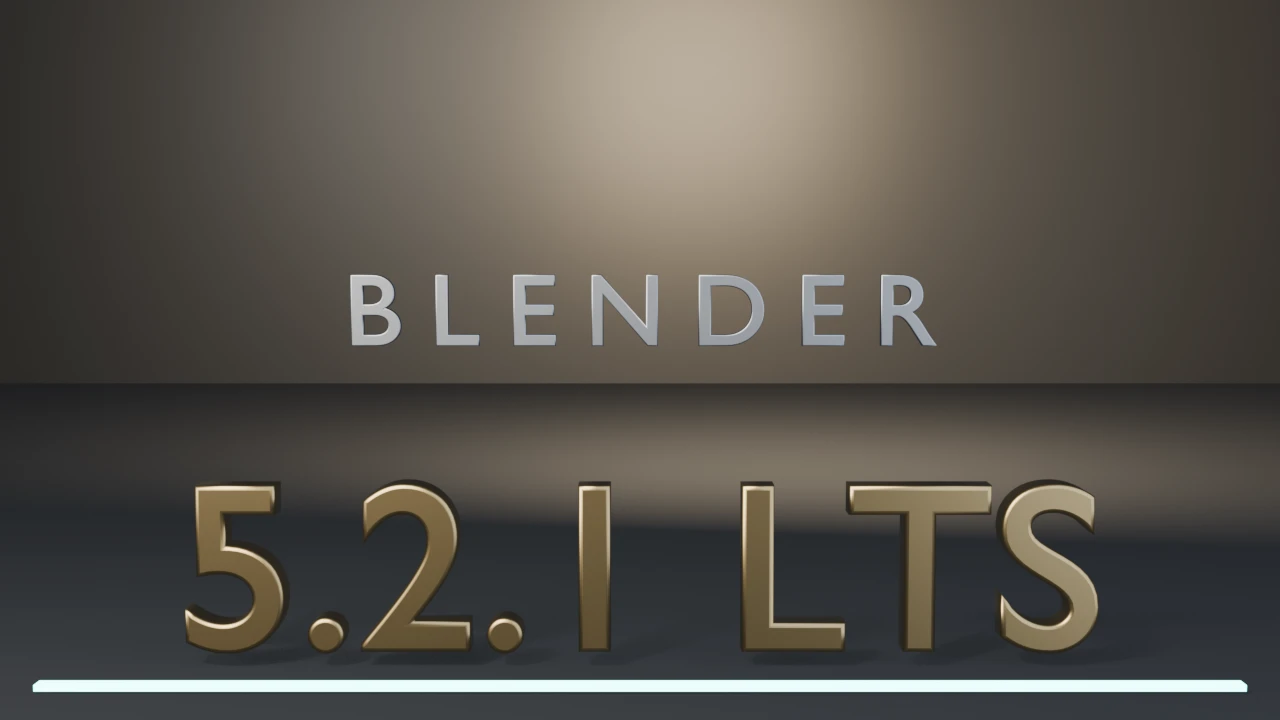
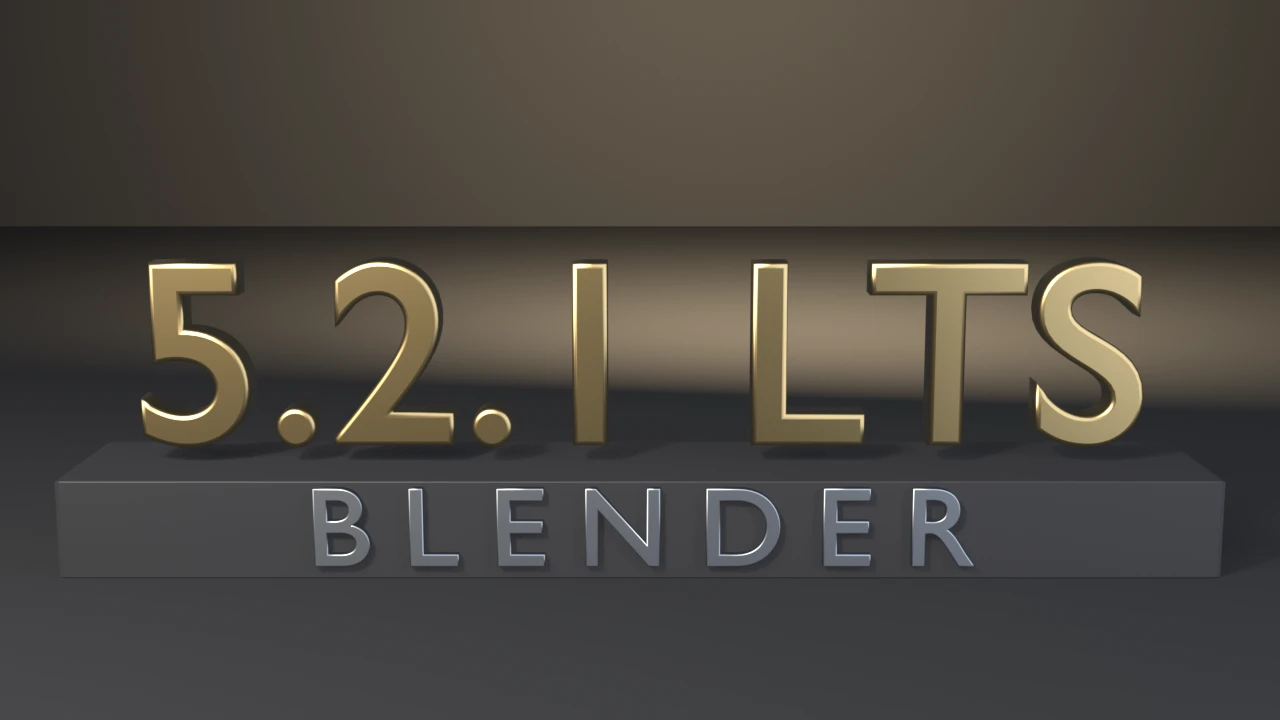
fix: text-version-stamp presentation, the stamp on a plinth
Render path only: the numerals stand on a plinth with the caption set into
its face; the floating caption and edge glow bar are gone. Standard view.
Contract and exit codes unchanged on 4.5.11, 5.1.2 and 5.2.1.

diff --git a/docs/gallery/text-version-stamp/index.html b/docs/gallery/text-version-stamp/index.html
@@ -16,13 +16,13 @@
   <meta property="og:image" content="https://tmhsdigital.github.io/Blender-Developer-Tools/gallery/assets/text-version-stamp-hero.webp" />
   <meta property="og:image:width" content="1280" />
   <meta property="og:image:height" content="720" />
-  <meta property="og:image:alt" content="The word BLENDER above the Blender version number in large gold 3D characters." />
+  <meta property="og:image:alt" content="The Blender version number in large gold 3D characters standing on a dark plinth, the word BLENDER set into its face." />
   <meta property="og:site_name" content="Blender Developer Tools" />
   <meta name="twitter:card" content="summary_large_image" />
   <meta name="twitter:title" content="text-version-stamp — Examples — Blender Developer Tools" />
   <meta name="twitter:description" content="The TextCurve data API — curves.new(type=&#x27;FONT&#x27;), live body text from bpy.app.version_string, extrude and bevel_depth solids, and evaluated-mesh conversion — so every render self-documents which Blender produced it." />
   <meta name="twitter:image" content="https://tmhsdigital.github.io/Blender-Developer-Tools/gallery/assets/text-version-stamp-hero.webp" />
-  <meta name="twitter:image:alt" content="The word BLENDER above the Blender version number in large gold 3D characters." />
+  <meta name="twitter:image:alt" content="The Blender version number in large gold 3D characters standing on a dark plinth, the word BLENDER set into its face." />
   <style>
     /* fonts are deployed by the landing build (docs/fonts/) */
     @font-face { font-family: 'Barlow Condensed'; font-weight: 600; font-display: swap;
@@ -268,8 +268,8 @@
     <p>The TextCurve data API — curves.new(type=&#x27;FONT&#x27;), live body text from bpy.app.version_string, extrude and bevel_depth solids, and evaluated-mesh conversion — so every render self-documents which Blender produced it.</p>
   </header>
   <main id="main">
-    <button class="detail-hero" id="heroZoom" type="button" aria-label="View full size: The word BLENDER above the Blender version number in large gold 3D characters.">
-      <img src="../assets/text-version-stamp-hero.webp" alt="The word BLENDER above the Blender version number in large gold 3D characters." width="1280" height="720" />
+    <button class="detail-hero" id="heroZoom" type="button" aria-label="View full size: The Blender version number in large gold 3D characters standing on a dark plinth, the word BLENDER set into its face.">
+      <img src="../assets/text-version-stamp-hero.webp" alt="The Blender version number in large gold 3D characters standing on a dark plinth, the word BLENDER set into its face." width="1280" height="720" />
     </button>
     <p class="zoom-hint">Rendered headless by the example itself — click to zoom.</p>
     <div class="callout"><span class="tag">witnesses</span> TextCurve solids are exactly predictable: evaluated z-extent = 2 × (extrude + bevel_depth), bevel widens the outline by 2 × bevel_depth, editing body regenerates geometry — and version_string is not bare semver on LTS (&quot;4.5.11 LTS&quot;), so parse bpy.app.version instead.</div>
@@ -281,6 +281,8 @@
 <p>A runnable example that builds a beveled 3D stamp of the running Blender version — a <code>TextCurve</code> (<code>bpy.data.curves.new(type=&#x27;FONT&#x27;)</code>) whose <code>body</code> is the live <code>bpy.app.version_string</code>, so every render self-documents which Blender produced it. CI artifacts made this way are self-labeling.</p>
 <p><strong>What it witnesses:</strong> the TextCurve data-API contract. <code>curves.new(type=&#x27;FONT&#x27;)</code> returns a Curve subclass, the built-in font (&quot;Bfont Regular&quot;) is always loaded even headless, <code>body</code> is plain assignable text that regenerates geometry on edit (more characters → strictly wider evaluated mesh), and <code>extrude</code> / <code>bevel_depth</code> produce exactly predictable solids: the evaluated mesh z-extent equals 2 × (extrude + bevel_depth) and the round bevel widens the outline in-plane by 2 × bevel_depth. Flat text (no extrude, no bevel) is already <em>filled</em> — faces exist — but strictly planar. The check also witnesses the depsgraph lifetime hazard: after <code>to_mesh_clear()</code> the returned Mesh reference is dead and any access raises <code>ReferenceError</code>.</p>
 <p><strong>Version divergence:</strong> the string format itself differs — <code>&quot;5.1.2&quot;</code> on 5.x but <code>&quot;4.5.11 LTS&quot;</code> on 4.5 (the suffix is part of <code>version_string</code>). The check therefore asserts the contract that holds on both: <code>version_string</code> starts with the dotted <code>bpy.app.version</code> tuple. Code that parses <code>version_string</code> as a bare semver breaks on every LTS build; branch on the <code>bpy.app.version</code> tuple instead.</p>
+<h2>Staging</h2>
+<p>The numerals stand on a dark plinth, with the steel caption set into the plinth&#x27;s front face. The caption used to float in the air above the stamp, and an emissive bar lay along the bottom edge of the frame. The still renders under the Standard view transform on the house stage. Render path only; the checked text body and its extents are unchanged.</p>
 <h2>Run</h2>
 <pre><code># Cheap correctness check (no render) — the CI check:
 blender --background --python text_version_stamp.py --
@@ -464,7 +466,12 @@ TOL = <span class="n">1e-4</span>
     s = <span class="n">3.1</span> / width
     obj.scale = (s, s, s)
     obj.rotation_euler = (math.radians(<span class="n">90</span>), <span class="n">0.0</span>, <span class="n">0.0</span>)
-    obj.location = (<span class="n">0.0</span>, <span class="n">0.0</span>, s * height / <span class="n">2</span> + <span class="n">0.02</span>)
+    <span class="c"># The stamp stands on a dark plinth, and the caption is set into the</span>
+    <span class="c"># plinth&#x27;s front face. It used to float in the air above the stamp,</span>
+    <span class="c"># with a glowing bar along the bottom edge of the frame.</span>
+    plinth_h = <span class="n">0.30</span>
+    plinth_d = <span class="n">0.56</span>
+    obj.location = (<span class="n">0.0</span>, <span class="n">0.0</span>, plinth_h + s * height / <span class="n">2</span> + <span class="n">0.02</span>)
 
     <span class="c"># small steel caption above, also a TextCurve</span>
     cap = bpy.data.curves.new(<span class="s">&quot;Caption&quot;</span>, type=<span class="s">&#x27;FONT&#x27;</span>)
@@ -480,28 +487,29 @@ TOL = <span class="n">1e-4</span>
     cap.materials.append(cmat)
     cap_obj = bpy.data.objects.new(<span class="s">&quot;Caption&quot;</span>, cap)
     cap_obj.rotation_euler = (math.radians(<span class="n">90</span>), <span class="n">0.0</span>, <span class="n">0.0</span>)
-    cap_obj.location = (<span class="n">0.0</span>, <span class="n">0.0</span>, s * height + <span class="n">0.62</span>)
+    cap_obj.location = (<span class="n">0.0</span>, -plinth_d / <span class="n">2</span> - cap.extrude, plinth_h / <span class="n">2</span>)
     scene.collection.objects.link(cap_obj)
 
-    <span class="c"># teal emissive underline bar grounding the stamp</span>
     <span class="k">import</span> bmesh
-    bar_me = bpy.data.meshes.new(<span class="s">&quot;Bar&quot;</span>)
+    plinth_me = bpy.data.meshes.new(<span class="s">&quot;Plinth&quot;</span>)
     bm = bmesh.new()
     <span class="k">try</span>:
         bmesh.ops.create_cube(bm, size=<span class="n">1.0</span>)
-        bm.to_mesh(bar_me)
+        bmesh.ops.bevel(bm, geom=list(bm.edges), offset=<span class="n">0.012</span>, segments=<span class="n">2</span>,
+                        profile=<span class="n">0.5</span>, affect=<span class="s">&quot;EDGES&quot;</span>, clamp_overlap=<span class="k">True</span>)
+        bm.to_mesh(plinth_me)
     <span class="k">finally</span>:
         bm.free()
-    bmat = bpy.data.materials.new(<span class="s">&quot;Glow&quot;</span>)
-    bmat.use_nodes = <span class="k">True</span>
-    bb = bmat.node_tree.nodes[<span class="s">&quot;Principled BSDF&quot;</span>]
-    bb.inputs[<span class="s">&quot;Emission Color&quot;</span>].default_value = (<span class="n">0.1</span>, <span class="n">0.9</span>, <span class="n">0.8</span>, <span class="n">1.0</span>)
-    bb.inputs[<span class="s">&quot;Emission Strength&quot;</span>].default_value = <span class="n">14.0</span>
-    bar_me.materials.append(bmat)
-    bar = bpy.data.objects.new(<span class="s">&quot;Bar&quot;</span>, bar_me)
-    bar.scale = (<span class="n">3.9</span>, <span class="n">0.06</span>, <span class="n">0.02</span>)
-    bar.location = (<span class="n">0.0</span>, -<span class="n">0.35</span>, <span class="n">0.02</span>)
-    scene.collection.objects.link(bar)
+    pmat = bpy.data.materials.new(<span class="s">&quot;Plinth&quot;</span>)
+    pmat.use_nodes = <span class="k">True</span>
+    pb = pmat.node_tree.nodes[<span class="s">&quot;Principled BSDF&quot;</span>]
+    pb.inputs[<span class="s">&quot;Base Color&quot;</span>].default_value = (<span class="n">0.045</span>, <span class="n">0.045</span>, <span class="n">0.05</span>, <span class="n">1.0</span>)
+    pb.inputs[<span class="s">&quot;Roughness&quot;</span>].default_value = <span class="n">0.45</span>
+    plinth_me.materials.append(pmat)
+    plinth = bpy.data.objects.new(<span class="s">&quot;Plinth&quot;</span>, plinth_me)
+    plinth.scale = (<span class="n">3.5</span>, plinth_d, plinth_h)
+    plinth.location = (<span class="n">0.0</span>, <span class="n">0.0</span>, plinth_h / <span class="n">2</span>)
+    scene.collection.objects.link(plinth)
 
     <span class="c"># dark studio: floor + back wall</span>
     floor_me = bpy.data.meshes.new(<span class="s">&quot;Floor&quot;</span>)
@@ -514,8 +522,8 @@ TOL = <span class="n">1e-4</span>
     fmat = bpy.data.materials.new(<span class="s">&quot;Studio&quot;</span>)
     fmat.use_nodes = <span class="k">True</span>
     fb = fmat.node_tree.nodes[<span class="s">&quot;Principled BSDF&quot;</span>]
-    fb.inputs[<span class="s">&quot;Base Color&quot;</span>].default_value = (<span class="n">0.05</span>, <span class="n">0.055</span>, <span class="n">0.065</span>, <span class="n">1.0</span>)
-    fb.inputs[<span class="s">&quot;Roughness&quot;</span>].default_value = <span class="n">0.35</span>
+    fb.inputs[<span class="s">&quot;Base Color&quot;</span>].default_value = (<span class="n">0.03</span>, <span class="n">0.032</span>, <span class="n">0.037</span>, <span class="n">1.0</span>)
+    fb.inputs[<span class="s">&quot;Roughness&quot;</span>].default_value = <span class="n">0.7</span>
     floor_me.materials.append(fmat)
     floor = bpy.data.objects.new(<span class="s">&quot;Floor&quot;</span>, floor_me)
     scene.collection.objects.link(floor)
@@ -548,10 +556,10 @@ TOL = <span class="n">1e-4</span>
     <span class="c"># Reframed: the old (0,-8.5,1.15) fixed 86.5° pitch left the stamp at</span>
     <span class="c"># 0.663 fill with a dead lower third; moved in with an aim on the stamp&#x27;s</span>
     <span class="c"># vertical center so text, caption, and underline bar balance the frame.</span>
-    cam.location = (<span class="n">0.0</span>, -<span class="n">6.0</span>, <span class="n">1.5</span>)
+    cam.location = (<span class="n">0.0</span>, -<span class="n">5.45</span>, <span class="n">1.55</span>)
     scene.collection.objects.link(cam)
     aim = bpy.data.objects.new(<span class="s">&quot;Aim&quot;</span>, <span class="k">None</span>)
-    aim.location = (<span class="n">0.0</span>, <span class="n">0.0</span>, <span class="n">1.05</span>)
+    aim.location = (<span class="n">0.0</span>, <span class="n">0.0</span>, <span class="n">0.62</span>)
     scene.collection.objects.link(aim)
     con = cam.constraints.new(<span class="s">&#x27;TRACK_TO&#x27;</span>)
     con.target = aim
@@ -571,13 +579,15 @@ TOL = <span class="n">1e-4</span>
     scene.render.resolution_y = <span class="n">720</span>
     scene.render.image_settings.file_format = <span class="s">&#x27;PNG&#x27;</span>
     scene.render.filepath = path
+    <span class="c"># AgX would dull the brass toward tan (docs/VISUAL-STYLE.md)</span>
+    scene.view_settings.view_transform = <span class="s">&#x27;Standard&#x27;</span>
     <span class="c"># Layer 1 framing gate (silhouette matte) — exit 10 on violation, before</span>
     <span class="c"># the beauty render so a defective composition ships no artifact. The hero</span>
-    <span class="c"># is the version stamp; caption and underline bar count for margins.</span>
+    <span class="c"># is the version stamp; caption and plinth count for margins.</span>
     fcode = gallery_framing.check_framing(
         scene, cam,
         hero=[obj],
-        elements=[obj, cap_obj, bar],
+        elements=[obj, cap_obj, plinth],
         stage=[floor, wall],
     )
     <span class="k">if</span> fcode:
@@ -625,7 +635,7 @@ TOL = <span class="n">1e-4</span>
   </main>
   <dialog class="lightbox" id="lightbox" aria-label="Full-size render">
     <button class="lightbox-close" type="button" autofocus>Close</button>
-    <img src="../assets/text-version-stamp-hero.webp" alt="The word BLENDER above the Blender version number in large gold 3D characters." />
+    <img src="../assets/text-version-stamp-hero.webp" alt="The Blender version number in large gold 3D characters standing on a dark plinth, the word BLENDER set into its face." />
   </dialog>
   <footer>
     <div class="statusbar">

diff --git a/examples/text-version-stamp/text_version_stamp.py b/examples/text-version-stamp/text_version_stamp.py
@@ -159,7 +159,12 @@ def render_still(obj, path, engine):
     s = 3.1 / width
     obj.scale = (s, s, s)
     obj.rotation_euler = (math.radians(90), 0.0, 0.0)
-    obj.location = (0.0, 0.0, s * height / 2 + 0.02)
+    # The stamp stands on a dark plinth, and the caption is set into the
+    # plinth's front face. It used to float in the air above the stamp,
+    # with a glowing bar along the bottom edge of the frame.
+    plinth_h = 0.30
+    plinth_d = 0.56
+    obj.location = (0.0, 0.0, plinth_h + s * height / 2 + 0.02)
 
     # small steel caption above, also a TextCurve
     cap = bpy.data.curves.new("Caption", type='FONT')
@@ -175,28 +180,29 @@ def render_still(obj, path, engine):
     cap.materials.append(cmat)
     cap_obj = bpy.data.objects.new("Caption", cap)
     cap_obj.rotation_euler = (math.radians(90), 0.0, 0.0)
-    cap_obj.location = (0.0, 0.0, s * height + 0.62)
+    cap_obj.location = (0.0, -plinth_d / 2 - cap.extrude, plinth_h / 2)
     scene.collection.objects.link(cap_obj)
 
-    # teal emissive underline bar grounding the stamp
     import bmesh
-    bar_me = bpy.data.meshes.new("Bar")
+    plinth_me = bpy.data.meshes.new("Plinth")
     bm = bmesh.new()
     try:
         bmesh.ops.create_cube(bm, size=1.0)
-        bm.to_mesh(bar_me)
+        bmesh.ops.bevel(bm, geom=list(bm.edges), offset=0.012, segments=2,
+                        profile=0.5, affect="EDGES", clamp_overlap=True)
+        bm.to_mesh(plinth_me)
     finally:
         bm.free()
-    bmat = bpy.data.materials.new("Glow")
-    bmat.use_nodes = True
-    bb = bmat.node_tree.nodes["Principled BSDF"]
-    bb.inputs["Emission Color"].default_value = (0.1, 0.9, 0.8, 1.0)
-    bb.inputs["Emission Strength"].default_value = 14.0
-    bar_me.materials.append(bmat)
-    bar = bpy.data.objects.new("Bar", bar_me)
-    bar.scale = (3.9, 0.06, 0.02)
-    bar.location = (0.0, -0.35, 0.02)
-    scene.collection.objects.link(bar)
+    pmat = bpy.data.materials.new("Plinth")
+    pmat.use_nodes = True
+    pb = pmat.node_tree.nodes["Principled BSDF"]
+    pb.inputs["Base Color"].default_value = (0.045, 0.045, 0.05, 1.0)
+    pb.inputs["Roughness"].default_value = 0.45
+    plinth_me.materials.append(pmat)
+    plinth = bpy.data.objects.new("Plinth", plinth_me)
+    plinth.scale = (3.5, plinth_d, plinth_h)
+    plinth.location = (0.0, 0.0, plinth_h / 2)
+    scene.collection.objects.link(plinth)
 
     # dark studio: floor + back wall
     floor_me = bpy.data.meshes.new("Floor")
@@ -209,8 +215,8 @@ def render_still(obj, path, engine):
     fmat = bpy.data.materials.new("Studio")
     fmat.use_nodes = True
     fb = fmat.node_tree.nodes["Principled BSDF"]
-    fb.inputs["Base Color"].default_value = (0.05, 0.055, 0.065, 1.0)
-    fb.inputs["Roughness"].default_value = 0.35
+    fb.inputs["Base Color"].default_value = (0.03, 0.032, 0.037, 1.0)
+    fb.inputs["Roughness"].default_value = 0.7
     floor_me.materials.append(fmat)
     floor = bpy.data.objects.new("Floor", floor_me)
     scene.collection.objects.link(floor)
@@ -243,10 +249,10 @@ def render_still(obj, path, engine):
     # Reframed: the old (0,-8.5,1.15) fixed 86.5° pitch left the stamp at
     # 0.663 fill with a dead lower third; moved in with an aim on the stamp's
     # vertical center so text, caption, and underline bar balance the frame.
-    cam.location = (0.0, -6.0, 1.5)
+    cam.location = (0.0, -5.45, 1.55)
     scene.collection.objects.link(cam)
     aim = bpy.data.objects.new("Aim", None)
-    aim.location = (0.0, 0.0, 1.05)
+    aim.location = (0.0, 0.0, 0.62)
     scene.collection.objects.link(aim)
     con = cam.constraints.new('TRACK_TO')
     con.target = aim
@@ -266,13 +272,15 @@ def render_still(obj, path, engine):
     scene.render.resolution_y = 720
     scene.render.image_settings.file_format = 'PNG'
     scene.render.filepath = path
+    # AgX would dull the brass toward tan (docs/VISUAL-STYLE.md)
+    scene.view_settings.view_transform = 'Standard'
     # Layer 1 framing gate (silhouette matte) — exit 10 on violation, before
     # the beauty render so a defective composition ships no artifact. The hero
-    # is the version stamp; caption and underline bar count for margins.
+    # is the version stamp; caption and plinth count for margins.
     fcode = gallery_framing.check_framing(
         scene, cam,
         hero=[obj],
-        elements=[obj, cap_obj, bar],
+        elements=[obj, cap_obj, plinth],
         stage=[floor, wall],
     )
     if fcode:

diff --git a/README.md b/README.md
@@ -404,7 +404,7 @@ evaluated topology 1044 verts / 1028 faces.
 </tr>
 <tr>
 <td width="46%" valign="middle">
-<a href="examples/text-version-stamp/"><img src="examples/text-version-stamp/preview.webp" alt="Text version stamp: beveled brass 5.1.2 numerals standing on a dark studio floor over a glowing teal underline, with a small steel BLENDER caption above — the body text is the live bpy.app.version_string" /></a>
+<a href="examples/text-version-stamp/"><img src="examples/text-version-stamp/preview.webp" alt="Text version stamp: beveled brass version numerals standing on a dark plinth with a steel BLENDER caption set into its face — the body text is the live bpy.app.version_string" /></a>
 </td>
 <td valign="middle">
 

diff --git a/examples/text-version-stamp/README.md b/examples/text-version-stamp/README.md
@@ -22,6 +22,14 @@ asserts the contract that holds on both: `version_string` starts with the dotted
 `bpy.app.version` tuple. Code that parses `version_string` as a bare semver breaks
 on every LTS build; branch on the `bpy.app.version` tuple instead.
 
+## Staging
+
+The numerals stand on a dark plinth, with the steel caption set into the
+plinth's front face. The caption used to float in the air above the
+stamp, and an emissive bar lay along the bottom edge of the frame. The
+still renders under the Standard view transform on the house stage.
+Render path only; the checked text body and its extents are unchanged.
+
 ## Run
 
 ```bash
